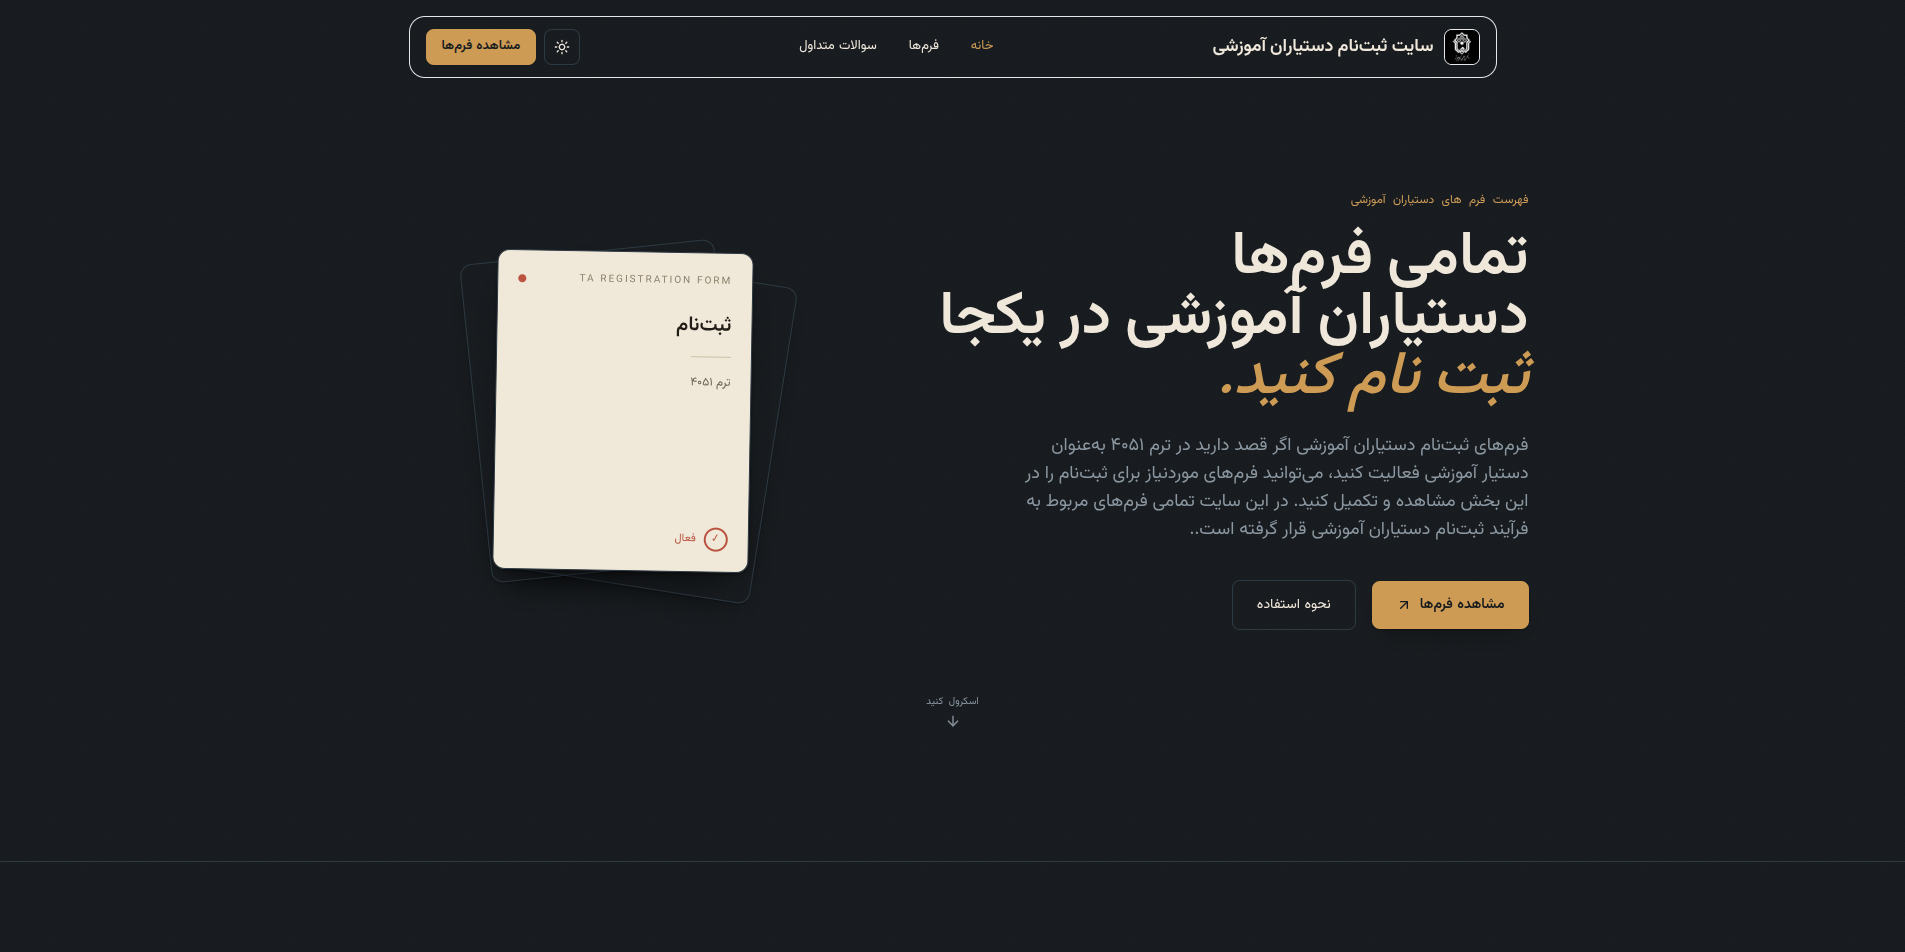
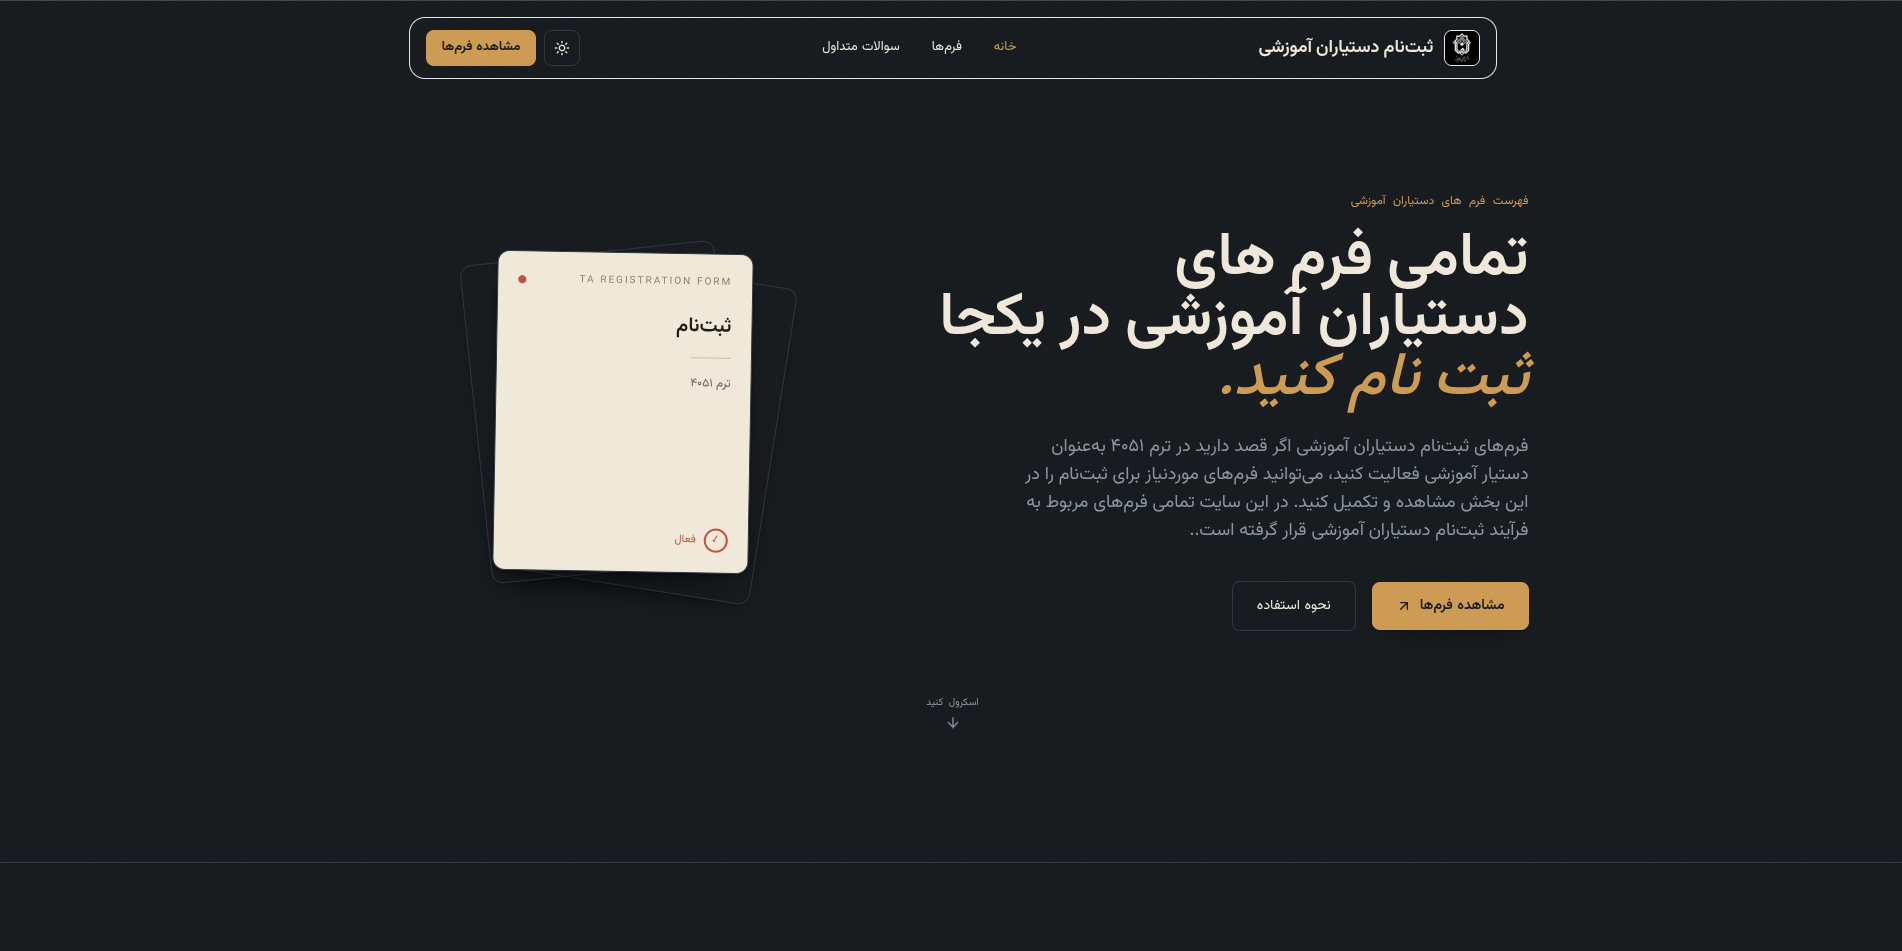
release

diff --git a/src/js/config.js b/src/js/config.js
@@ -130,7 +130,7 @@ export const pagesData = [
   },
   {
     fileNo: '04',
-    title: 'داده کاوری ',
+    title: 'داده کاوی ',
     description: 'اگه عاشق اینی که وسط یه عالمه داده بینظم، یه الگوی قشنگ پیدا کنی، این تیم دقیقاً برای توئه. با دکتر منصوریزاده بیا تو تیم دادهکاوی.',
     category: 'dr-mansourizadeh', // TODO: assign the correct doctor/category
     status: 'فعال',
